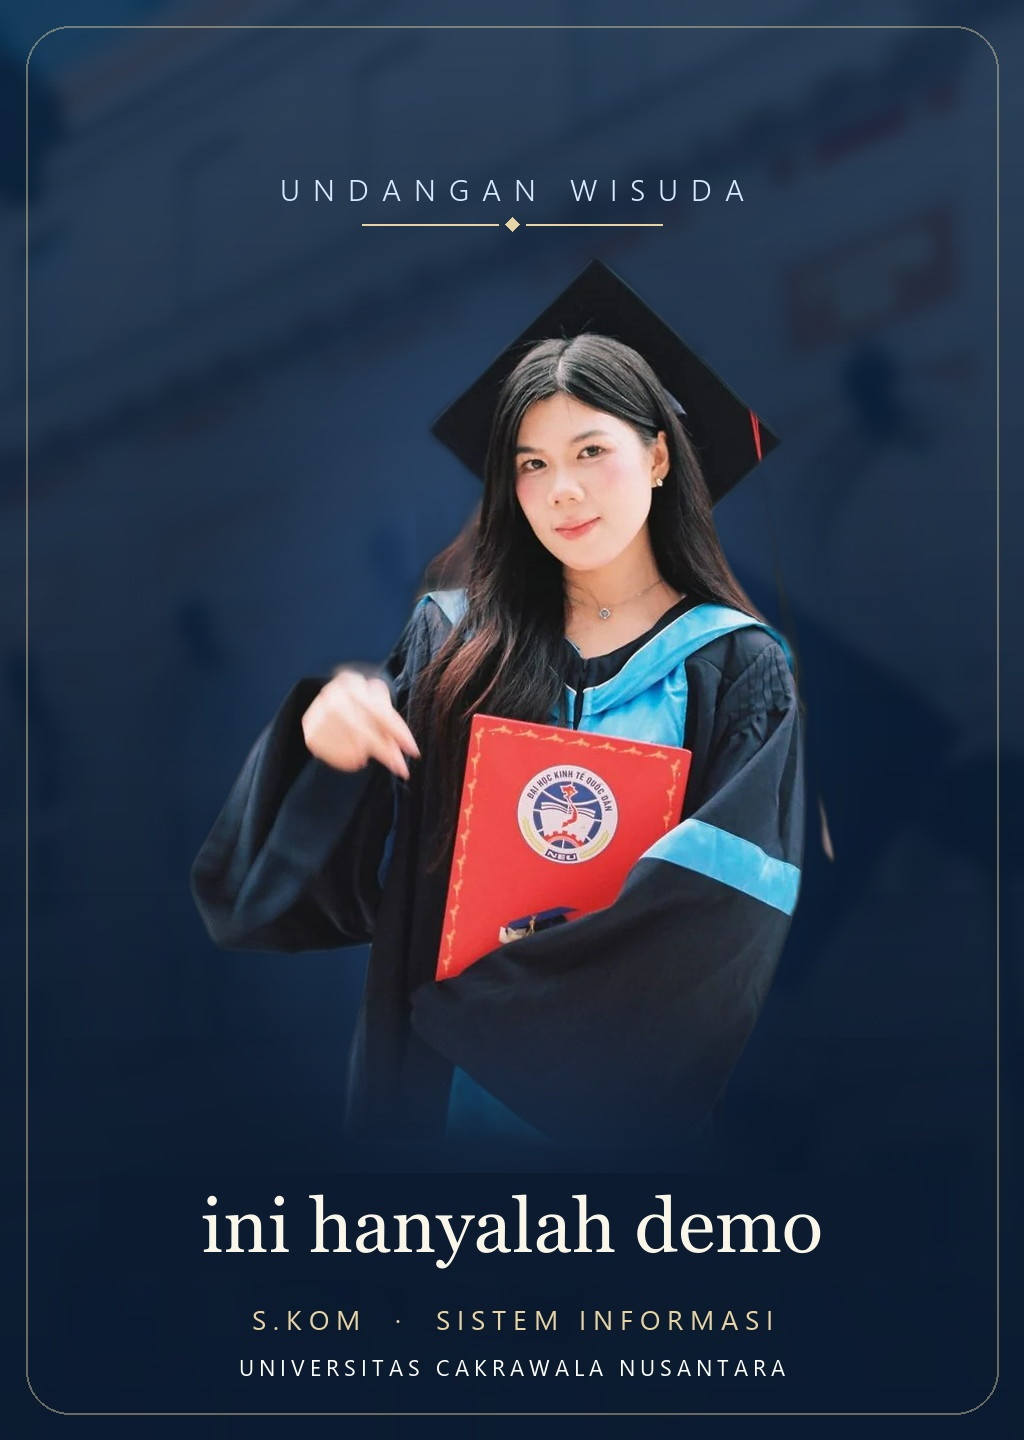
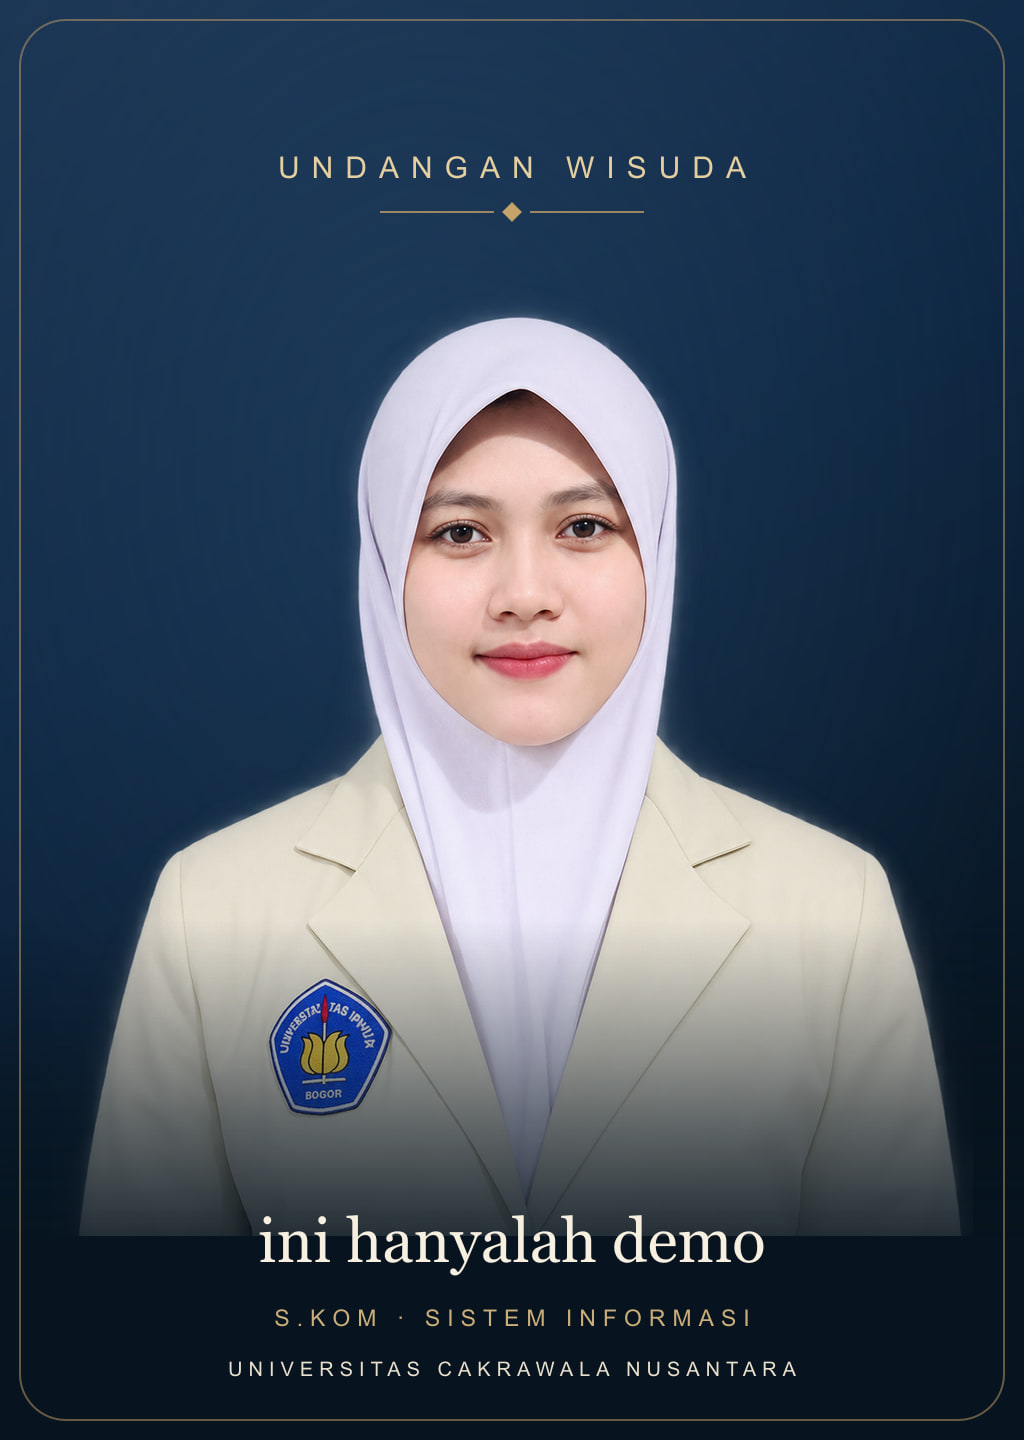
fix: polish lock screen for small screens and reframe the new lanyard photo
Tighten envelope spacing and typography so the invite fits narrow phones, and rebuild the replaced lanyard photo into the navy-gold card design as an optimized JPEG.

diff --git a/src/LockScreen.tsx b/src/LockScreen.tsx
@@ -3,6 +3,7 @@ import { GraduationCap, LockKeyhole } from "lucide-react";
 import { getGuestName } from "../lib/guest";
 import { Clock } from "../components/Clock";
 import { useMusic } from "./music";
+import EnvelopeFloralFrame from "./EnvelopeFloralFrame";
 
 interface LockScreenProps {
   y: MotionValue<number>;
@@ -30,8 +31,8 @@ export default function LockScreen({ y, onUnlock, ready }: LockScreenProps) {
       }}
       className="relative w-full h-full font-sans bg-cover bg-center bg-no-repeat overflow-y-auto"
     >
-      <div className="relative flex min-h-full flex-col items-center px-6 pb-10 pt-6 text-center">
-        <LockKeyhole size={22} strokeWidth={2.5} aria-hidden="true" />
+      <div className="relative flex min-h-full flex-col items-center px-4 pb-10 pt-6 text-center">
+        <LockKeyhole size={20} strokeWidth={2.5} aria-hidden="true" />
         <Clock showDate />
         <motion.button
           type="button"
@@ -40,7 +41,7 @@ export default function LockScreen({ y, onUnlock, ready }: LockScreenProps) {
           initial={{ opacity: 0, y: -180 }}
           animate={ready ? { opacity: 1, y: 0 } : { opacity: 0, y: reduceMotion ? 0 : -180 }}
           transition={{ delay: ready ? notificationDelay : 0, duration: reduceMotion ? 0 : 1.8, ease: [0.16, 1, 0.3, 1] }}
-          className="invitation-envelope relative mt-6 w-full cursor-pointer text-center focus-visible:outline-2 focus-visible:outline-offset-4 focus-visible:outline-white"
+          className="invitation-envelope relative mt-5 w-full cursor-pointer text-center focus-visible:outline-2 focus-visible:outline-offset-4 focus-visible:outline-white"
         >
           <svg aria-hidden="true" className="envelope-folds" viewBox="0 0 420 360" preserveAspectRatio="none" fill="none">
             <path d="M0 0H420V360H0Z" fill="#E8D8BE" />
@@ -56,17 +57,23 @@ export default function LockScreen({ y, onUnlock, ready }: LockScreenProps) {
             <path d="M9 7H411L219 163Q210 171 201 163Z" stroke="#E6C88F" strokeOpacity=".8" />
             <path d="M22 13H398" stroke="#E6C88F" strokeOpacity=".45" />
           </svg>
+          <EnvelopeFloralFrame />
           <div className="envelope-heading">
             <p className="text-xs font-medium uppercase tracking-[0.2em]">Undangan Wisuda</p>
-            <h1 className="mt-2 font-serif text-xl">ini hanyalah demo</h1>
-            <p className="mt-2 text-[11px] uppercase tracking-widest">11 November 2026</p>
+            <h1 className="mt-2 leading-tight font-serif text-base">ini hanyalah demo</h1>
+            <p className="mt-1 text-[10px] uppercase tracking-widest">11 November 2026</p>
           </div>
-          <span aria-hidden="true" className="envelope-seal"><GraduationCap size={26} strokeWidth={1.5} /></span>
+          <span
+            aria-hidden="true"
+            className="envelope-seal relative flex h-10 w-10 items-center justify-center rounded-2xl border border-white/10 bg-red-700 shadow-sm"
+          >
+            <GraduationCap size={22} strokeWidth={1.5} className="text-white" />
+          </span>
           <div className="envelope-recipient">
             <p className="text-xs text-[#68563F]">Kepada Yth. Bapak/Ibu/Saudara/i</p>
-            <p className="mt-2 break-words font-serif text-2xl text-[#463320]">{getGuestName() || "Tamu Undangan"}</p>
-            <span className="mx-auto my-4 block h-px w-12 bg-[#B89256]" aria-hidden="true" />
-            <p className="text-xs tracking-wide text-[#68563F]">Sebuah undangan istimewa untuk Anda</p>
+            <p className="mt-1 break-words font-serif text-lg text-[#463320]">{getGuestName() || "Tamu Undangan"}</p>
+            <span className="mx-auto my-3 block h-px w-10 bg-[#B89256]" aria-hidden="true" />
+            <p className="text-[10px] tracking-wide text-[#68563F]">Sebuah undangan istimewa untuk Anda</p>
           </div>
         </motion.button>
         <motion.button

diff --git a/src/EnvelopeFloralFrame.tsx b/src/EnvelopeFloralFrame.tsx
@@ -1,0 +1,36 @@
+/** Hiasan bunga dan topi wisuda di empat sudut sampul amplop. */
+export default function EnvelopeFloralFrame() {
+  return (
+    <span aria-hidden="true" className="pointer-events-none absolute inset-0 overflow-hidden rounded-[3px]">
+      <span className="absolute inset-[6px] border border-[#C6A36A]/40" />
+      {[
+        "left-0 top-0",
+        "right-0 top-0 -scale-x-100",
+        "bottom-0 left-0 -scale-y-100",
+        "bottom-0 right-0 -scale-x-100 -scale-y-100",
+      ].map((position) => (
+        <svg key={position} viewBox="0 0 100 100" fill="none" className={`absolute h-[76px] w-[76px] ${position}`}>
+          <path d="M7 92V19Q7 7 19 7H92M12 77Q16 20 77 12" stroke="#C6A36A" strokeWidth="1.2" />
+          <path d="M16 66Q2 51 10 40Q23 45 16 66ZM24 45Q19 25 31 20Q39 34 24 45ZM45 23Q47 9 63 10Q64 22 45 23ZM65 15Q75 3 88 8Q81 20 65 15" fill="#819276" stroke="#E8D9B8" strokeWidth=".8" />
+          <path d="M12 81Q23 78 27 65Q12 64 12 81ZM36 30Q33 12 43 8Q51 19 36 30" fill="#B0B99A" stroke="#E8D9B8" strokeWidth=".8" />
+          {[{ x: 22, y: 22, scale: 1, color: "#8F2034" }, { x: 13, y: 48, scale: .65, color: "#FFF4DF" }, { x: 48, y: 13, scale: .6, color: "#FFF4DF" }].map((flower) => (
+            <g key={flower.x} transform={`translate(${flower.x} ${flower.y}) scale(${flower.scale})`}>
+              {[0, 60, 120, 180, 240, 300].map((angle) => (
+                <ellipse key={angle} cy="-7" rx="5.5" ry="9" transform={`rotate(${angle})`} fill={flower.color} stroke="#D9BA81" strokeWidth=".7" />
+              ))}
+              <circle r="4" fill="#D5AF67" />
+              <circle r="1.5" fill="#FFF1CB" />
+            </g>
+          ))}
+          <g transform="translate(31 42) rotate(-22)">
+            <path d="M0 7L13 1L26 7L13 13Z" fill="#8F2034" stroke="#E4C68C" />
+            <path d="M5 11V17Q13 22 21 17V11" fill="#8F2034" stroke="#E4C68C" />
+            <path d="M26 7V20M24 23L26 19L28 23" stroke="#C6A36A" strokeWidth="1.3" />
+          </g>
+          <circle cx="10" cy="87" r="2" fill="#C6A36A" />
+          <circle cx="75" cy="23" r="1.5" fill="#C6A36A" />
+        </svg>
+      ))}
+    </span>
+  );
+}

diff --git a/src/index.css b/src/index.css
@@ -262,8 +262,8 @@ input, textarea, [contenteditable], [contenteditable="true"] {
 
 .envelope-heading {
   position: relative;
-  min-height: 140px;
-  padding: 25px 24px 36px;
+  min-height: 104px;
+  padding: 18px 20px 22px;
   color: #fff3d9;
 }
 
@@ -271,14 +271,13 @@ input, textarea, [contenteditable], [contenteditable="true"] {
   position: relative;
   display: grid;
   place-items: center;
-  width: 58px;
-  height: 58px;
+  width: 40px;
+  height: 40px;
   margin: 0 auto;
-  border: 4px double #f3d799;
-  border-radius: 46% 54% 49% 51% / 52% 46% 54% 48%;
-  color: #634016;
-  background: linear-gradient(135deg, #fae5ac, #c49950 55%, #e8ca85);
-  box-shadow: 0 4px 6px #4a231e40, inset 0 0 0 3px #b48a42;
+  border-radius: 50%;
+  border: 3px solid rgba(255, 255, 255, 0.25);
+  background: linear-gradient(135deg, #b31b2c, #7d121f);
+  box-shadow: 0 3px 5px rgba(0, 0, 0, 0.30), inset 0 0 0 2px rgba(255, 255, 255, 0.15);
 }
 
 .envelope-recipient {
